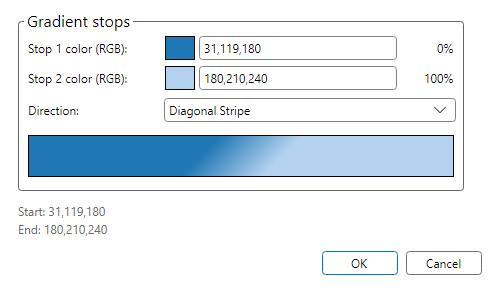
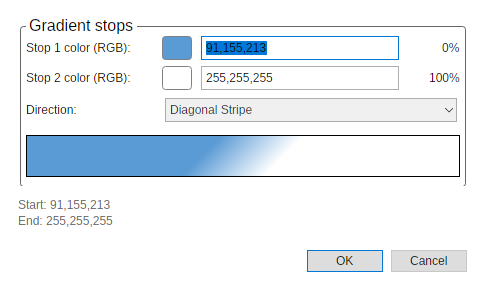
fix: align FreeX shape gradient parity

diff --git a/src/FreeX.App.Avalonia/MainWindow.DrawingFormatDialogs.cs b/src/FreeX.App.Avalonia/MainWindow.DrawingFormatDialogs.cs
@@ -623,18 +623,19 @@ public sealed partial class MainWindow
             Content = stopGrid,
             Width = 446,
             HorizontalAlignment = AvaloniaHorizontalAlignment.Left,
-            Margin = new Thickness(0, 0, 0, 12),
+            Padding = new Thickness(0),
+            Margin = new Thickness(2, 0, 0, 12),
         };
 
         var startSummary = new TextBlock { Text = $"Start: {FormatRgb(startColor)}", Foreground = Brushes.DimGray, FontSize = 12, FontFamily = FormulaBarFontFamily };
         var endSummary = new TextBlock { Text = $"End: {FormatRgb(endColor)}", Foreground = Brushes.DimGray, FontSize = 12, FontFamily = FormulaBarFontFamily, Margin = new Thickness(0, 2, 0, 6) };
         startSummaryRef = startSummary;
         endSummaryRef = endSummary;
-        var content = new StackPanel { Spacing = 0, Margin = new Thickness(18, 10, 18, 8) };
+        var content = new StackPanel { Spacing = 0, Margin = new Thickness(18, 16, 18, 8) };
         content.Children.Add(gradientGroup);
         content.Children.Add(startSummary);
         content.Children.Add(endSummary);
-        content.Children.Add(AvaloniaCompactDialogChrome.CreateActionRow([ok, cancel], new Thickness(0, 8, 0, 0)));
+        content.Children.Add(AvaloniaCompactDialogChrome.CreateActionRow([ok, cancel], new Thickness(0, 16, 15, 0)));
         dialog.Content = content;
 
         // Match the WPF dialog's Loaded focus contract: the first gradient-stop editor owns
@@ -756,7 +757,7 @@ public sealed partial class MainWindow
             Height = 24,
             MinWidth = 30,
             Padding = new Thickness(0),
-            BorderBrush = HeaderForeground,
+            BorderBrush = Brushes.Gray,
             BorderThickness = new Thickness(1),
             HorizontalContentAlignment = AvaloniaHorizontalAlignment.Center,
             VerticalContentAlignment = AvaloniaVerticalAlignment.Center,
@@ -777,7 +778,7 @@ public sealed partial class MainWindow
         };
         AvaloniaCompactDialogChrome.ApplyButton(
             button,
-            DrawingDialogChromeStyle with { ButtonPadding = new Thickness(8, 1) },
+            DrawingDialogChromeStyle with { ButtonHeight = 22, ButtonPadding = new Thickness(8, 1) },
             76,
             isDefault);
         return button;

diff --git a/tests/FreeX.App.Avalonia.Tests/ShapeGradientParitySourceTests.cs b/tests/FreeX.App.Avalonia.Tests/ShapeGradientParitySourceTests.cs
@@ -1,0 +1,35 @@
+using System.IO;
+using FluentAssertions;
+
+namespace FreeX.App.Avalonia.Tests;
+
+public sealed class ShapeGradientParitySourceTests
+{
+    [Fact]
+    public void ParityCapture_UsesSharedFixtureAndWpfMeasuredLayoutMetrics()
+    {
+        var paritySource = File.ReadAllText(Path.Combine(
+            RepoRoot(), "src", "FreeX.App.Avalonia", "MainWindow.ParityCapture.cs"));
+        var dialogSource = File.ReadAllText(Path.Combine(
+            RepoRoot(), "src", "FreeX.App.Avalonia", "MainWindow.DrawingFormatDialogs.cs"));
+
+        paritySource.Should().Contain("ShapeGradientParityFixture.Apply(shape);");
+        paritySource.Should().NotContain("new CellColor(31, 119, 180)");
+        paritySource.Should().NotContain("new CellColor(180, 210, 240)");
+        dialogSource.Should().Contain("Padding = new Thickness(0)");
+        dialogSource.Should().Contain("Margin = new Thickness(2, 0, 0, 12)");
+        dialogSource.Should().Contain("new Thickness(18, 16, 18, 8)");
+        dialogSource.Should().Contain("new Thickness(0, 16, 15, 0)");
+        dialogSource.Should().Contain("BorderBrush = Brushes.Gray");
+        dialogSource.Should().Contain("ButtonHeight = 22");
+    }
+
+    private static string RepoRoot()
+    {
+        var directory = new DirectoryInfo(AppContext.BaseDirectory);
+        while (directory is not null && !File.Exists(Path.Combine(directory.FullName, "FreeX.slnx")))
+            directory = directory.Parent;
+
+        return directory?.FullName ?? throw new DirectoryNotFoundException("FreeX repository root was not found.");
+    }
+}

diff --git a/tests/FreeX.App.Services.Tests/ShapeGradientParityFixtureTests.cs b/tests/FreeX.App.Services.Tests/ShapeGradientParityFixtureTests.cs
@@ -1,0 +1,23 @@
+using FluentAssertions;
+using FreeX.App.Services;
+using FreeX.Core.Model;
+
+namespace FreeX.App.Services.Tests;
+
+public sealed class ShapeGradientParityFixtureTests
+{
+    [Fact]
+    public void Fixture_UsesPlannerDefaultsAndAppliesThemToASelectedShape()
+    {
+        var shape = new DrawingShapeModel();
+
+        ShapeGradientParityFixture.Apply(shape);
+
+        ShapeGradientParityFixture.StartColor.Should().Be(ShapeGradientPlanner.DefaultStartColor);
+        ShapeGradientParityFixture.EndColor.Should().Be(ShapeGradientPlanner.DefaultEndColor);
+        ShapeGradientParityFixture.Direction.Should().Be(DrawingShapeGradientDirection.DiagonalDown);
+        shape.FillColor.Should().Be(ShapeGradientParityFixture.StartColor);
+        shape.GradientFillEndColor.Should().Be(ShapeGradientParityFixture.EndColor);
+        shape.GradientFillDirection.Should().Be(ShapeGradientParityFixture.Direction);
+    }
+}

diff --git a/src/FreeX.App.Services/ShapeGradientParityFixture.cs b/src/FreeX.App.Services/ShapeGradientParityFixture.cs
@@ -1,0 +1,25 @@
+using FreeX.Core.Model;
+
+namespace FreeX.App.Services;
+
+/// <summary>
+/// Shared deterministic state for the WPF/Avalonia Shape Gradient parity capture.
+/// The values intentionally come from the planner defaults so the evidence follows the
+/// product's no-existing-gradient seed behavior on both shells.
+/// </summary>
+public static class ShapeGradientParityFixture
+{
+    public static CellColor StartColor => ShapeGradientPlanner.DefaultStartColor;
+
+    public static CellColor EndColor => ShapeGradientPlanner.DefaultEndColor;
+
+    public const DrawingShapeGradientDirection Direction = DrawingShapeGradientDirection.DiagonalDown;
+
+    public static void Apply(DrawingShapeModel shape)
+    {
+        ArgumentNullException.ThrowIfNull(shape);
+        shape.FillColor = StartColor;
+        shape.GradientFillEndColor = EndColor;
+        shape.GradientFillDirection = Direction;
+    }
+}

diff --git a/src/FreeX.App.Avalonia/MainWindow.ParityCapture.cs b/src/FreeX.App.Avalonia/MainWindow.ParityCapture.cs
@@ -1591,11 +1591,7 @@ public sealed partial class MainWindow
     private async Task ShowShapeGradientParityDialogAsync()
     {
         if (EnsureParityShape() is { } shape)
-        {
-            shape.FillColor = new CellColor(31, 119, 180);
-            shape.GradientFillEndColor = new CellColor(180, 210, 240);
-            shape.GradientFillDirection = DrawingShapeGradientDirection.DiagonalDown;
-        }
+            ShapeGradientParityFixture.Apply(shape);
 
         await ShowWithSelectedParityShapeAsync(OpenShapeGradientDialogAsync);
     }

diff --git a/src/FreeX.App.Host/ParityCapture.cs b/src/FreeX.App.Host/ParityCapture.cs
@@ -783,7 +783,10 @@ internal static class ParityCapture
             new ShapeEffectsDialog(DrawingShapeEffectPreset.Shadow));
 
         CaptureDialog(results, "dialog.ShapeGradient", outDir, () =>
-            new ShapeGradientDialog());
+            new ShapeGradientDialog(
+                ShapeGradientParityFixture.StartColor,
+                ShapeGradientParityFixture.EndColor,
+                ShapeGradientParityFixture.Direction));
 
         CaptureDialog(results, "dialog.Zoom", outDir, () =>
             new ZoomDialog(100));

diff --git a/docs/parity/dialog-visual-evidence-summary.md b/docs/parity/dialog-visual-evidence-summary.md
@@ -63,7 +63,6 @@ Outliers are ranked by a deterministic triage score: normalized 32x32 ARGB sampl
 | Surface id | WPF logical size | Avalonia logical size | Raw PNG sizes | Bucket | Evidence flag | Score | Sample delta | Luma delta | Non-bg delta |
 | --- | ---: | ---: | --- | --- | --- | ---: | ---: | ---: | ---: |
 | dialog.About | 560x420 | 560x420 | 560x420 px @ 96 DPI vs 560x420 px @ 96 DPI |  |  | 0.107 | 0.071 | 0.014 | 0.021 |
-| dialog.ShapeGradient | 500x300 | 500x300 | 500x300 px @ 96 DPI vs 500x300 px @ 96 DPI |  |  | 0.082 | 0.055 | 0.022 | 0.004 |
 | dialog.AllowEditRanges | 430x420 | 430x420 | 430x420 px @ 96 DPI vs 430x420 px @ 96 DPI |  |  | 0.079 | 0.022 | 0.014 | 0.042 |
 | dialog.Sparkline | 380x280 | 380x280 | 380x280 px @ 96 DPI vs 380x280 px @ 96 DPI |  |  | 0.077 | 0.054 | 0.001 | 0.022 |
 | dialog.SelectDataSource | 620x500 | 620x500 | 930x750 px @ 144 DPI vs 620x500 px @ 96 DPI |  |  | 0.075 | 0.036 | 0.006 | 0.033 |
@@ -72,6 +71,7 @@ Outliers are ranked by a deterministic triage score: normalized 32x32 ARGB sampl
 | dialog.PivotTableOptions.Display | 520x500 | 520x500 | 520x500 px @ 96 DPI vs 520x500 px @ 96 DPI |  |  | 0.069 | 0.045 | 0.006 | 0.019 |
 | dialog.InsertHyperlink | 560x300 | 560x300 | 840x450 px @ 144 DPI vs 560x300 px @ 96 DPI |  |  | 0.069 | 0.037 | 0.002 | 0.030 |
 | dialog.DataTable | 360x210 | 360x210 | 540x315 px @ 144 DPI vs 360x210 px @ 96 DPI |  |  | 0.068 | 0.020 | 0.008 | 0.040 |
+| dialog.AccessibilityChecker | 360x520 | 360x520 | 360x520 px @ 96 DPI vs 360x520 px @ 96 DPI |  |  | 0.067 | 0.044 | 0.001 | 0.021 |
 
 ## Scale-Aware Dimension Mismatch Details
 
@@ -172,7 +172,7 @@ These rows have a DPI-normalized checked-in PNG size that disagrees with the dia
 | dialog.SelectDataSource | dialog.SelectDataSource.png | 620x500 | 930x750 px @ 144 DPI | True | dialog.SelectDataSource.png | 620x500 | 620x500 px @ 96 DPI | True | True | 0.075 |
 | dialog.SelectionPane | dialog.SelectionPane.png | 520x440 | 520x440 px @ 96 DPI | True | dialog.SelectionPane.png | 520x440 | 520x440 px @ 96 DPI | True | True | 0.044 |
 | dialog.ShapeEffects | dialog.ShapeEffects.png | 380x190 | 570x285 px @ 144 DPI | True | dialog.ShapeEffects.png | 380x190 | 380x190 px @ 96 DPI | True | True | 0.032 |
-| dialog.ShapeGradient | dialog.ShapeGradient.png | 500x300 | 500x300 px @ 96 DPI | True | dialog.ShapeGradient.png | 500x300 | 500x300 px @ 96 DPI | True | True | 0.082 |
+| dialog.ShapeGradient | dialog.ShapeGradient.png | 500x300 | 500x300 px @ 96 DPI | True | dialog.ShapeGradient.png | 500x300 | 500x300 px @ 96 DPI | True | True | 0.055 |
 | dialog.Sort | dialog.Sort.png | 760x500 | 760x500 px @ 96 DPI | True | dialog.Sort.png | 760x500 | 760x500 px @ 96 DPI | True | True | 0.042 |
 | dialog.SortOptions | dialog.SortOptions.png | 330x260 | 495x390 px @ 144 DPI | True | dialog.SortOptions.png | 330x260 | 330x260 px @ 96 DPI | True | True | 0.049 |
 | dialog.Sparkline | dialog.Sparkline.png | 380x280 | 380x280 px @ 96 DPI | True | dialog.Sparkline.png | 380x280 | 380x280 px @ 96 DPI | True | True | 0.077 |

diff --git a/docs/parity/avalonia-parity-wave132-freex-shape-gradient-20260803.md b/docs/parity/avalonia-parity-wave132-freex-shape-gradient-20260803.md
@@ -1,0 +1,63 @@
+# Avalonia Parity Wave132: FreeX Shape Gradient
+
+Date: 2026-08-03
+
+## Scope
+
+This slice covers `dialog.ShapeGradient` at the shared `500x300` logical
+capture size. WPF remains the visual authority. Both capture paths now use
+`ShapeGradientParityFixture`, which derives its `91,155,213 -> 255,255,255`
+seed from `ShapeGradientPlanner` instead of maintaining different hardcoded
+fixture colors.
+
+## Before / After
+
+The committed pair was not a valid visual baseline: WPF used the planner
+default constructor while Avalonia seeded `31,119,180 -> 180,210,240`. After
+matching the fixture, a fresh WPF frame was cropped only at the established
+bottom whitespace boundary from `500x333` to the planner's `500x300` evidence
+area. Avalonia was then recaptured from the rebuilt current source.
+
+| Metric | Fresh matched baseline | After | Change |
+| --- | ---: | ---: | ---: |
+| Triage score | 0.062809 | 0.055491 | -0.007318 |
+| Sample mean delta | 0.044160 | 0.040534 | -0.003626 |
+| Luma delta | 0.006321 | 0.005615 | -0.000706 |
+| Non-background delta | 0.011520 | 0.008533 | -0.002987 |
+| Raw paired image diff | 5.90% | 3.48% | -2.42 pp |
+
+The previous canonical triage row was `0.082369` with sample `0.055031` and
+non-background `0.004160`; it is retained as historical context only because
+its fixture state was not matched.
+
+## Implementation
+
+- Added `ShapeGradientParityFixture` in `FreeX.App.Services`; WPF and Avalonia
+  parity routes consume the same planner-derived seed values and direction.
+- Corrected Avalonia's dialog composition to match measured WPF geometry: the
+  group-box content inset, group offset, top content margin, action-row rhythm
+  and client-frame right inset, compact action-button height, and gray color
+  swatch borders.
+- Preserved the existing selected-shape capture, color-picker commands,
+  direction selection, validation, focus, automation ids, and cancel/escape
+  behavior.
+
+## Residuals
+
+The remaining `0.055491` triage score is a genuine visual mismatch from
+native WPF versus Avalonia text/control rasterization and their different
+color counts (`406` WPF colors versus `2,086` Avalonia colors). WPF's fresh
+capture is `500.202x300.121` logical pixels at approximately 96 DPI versus
+Avalonia's `500x300`; the logical difference is within the repository's
+0.5-DIP tolerance. No evidence threshold or comparison classification was
+changed, and no cross-app dashboard was regenerated.
+
+## Verification
+
+- Focused shared planner/fixture tests: `10 passed`.
+- Focused Avalonia Shape Gradient source/lifecycle tests: `3 passed`.
+- Focused WPF Shape Gradient appearance tests: `1 passed`.
+- WPF and Avalonia Release builds: passed with zero warnings and errors.
+- Fresh WPF capture: `115/116` surfaces captured; target nonblank.
+- Fresh Avalonia Docker/Xvfb capture: target captured, `app_exit=0`,
+  `capture_validated=true`, `500x300` nonblank PNG.
